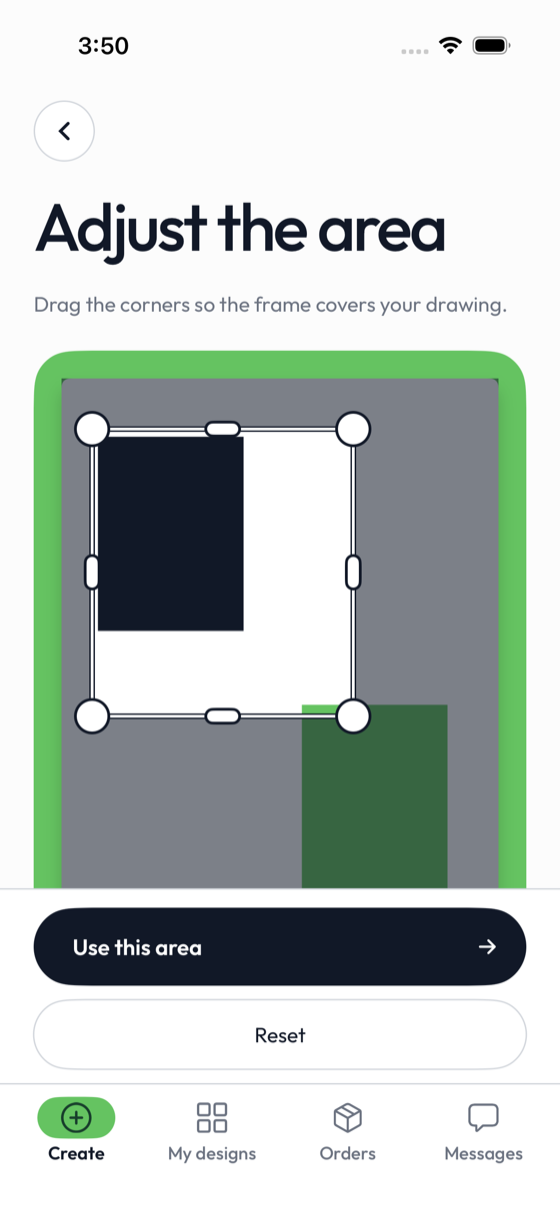
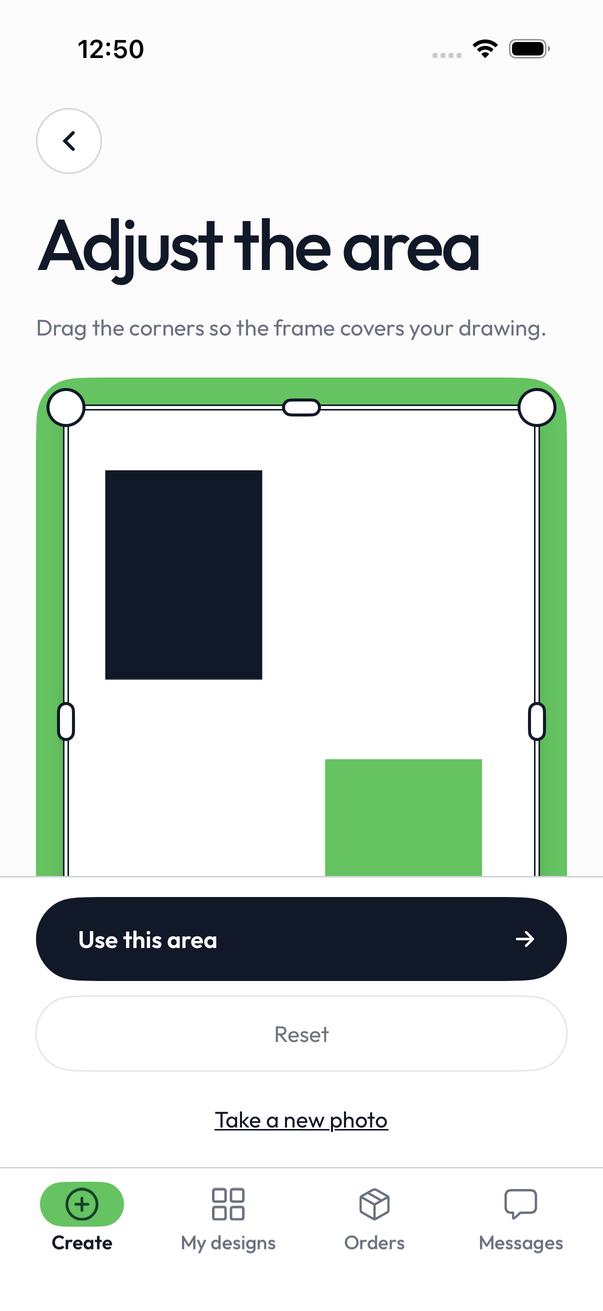
docs: README for the submission — fresh screenshots (current app and live shop), physical tag done, no TestFlight claim, Spark's naming role, the autoplaying story video, what was verified on a phone

diff --git a/README.md b/README.md
@@ -7,19 +7,19 @@ This is our entry for the Meta Global AI Developer Hackathon (Startups track, "B
 ## Screenshots
 
 <p>
-  <img width="280" src="docs/images/ios-change-it.png" alt="The iOS app's Change your art? screen: your picked drawing on a card, a description of what the image shows, the What to change field with the words Make the sky purple typed in, the Say what to change microphone button, Make the change, and a Looks good as is button">
-  <img width="280" src="docs/images/ios-before-after.png" alt="The iOS app's Here's the change screen: the request Make the sky purple, Before and After pictures side by side (the same sample mascot on both sides, because the mock makes no real edit), and the buttons Use this, Change it again and Back to my original">
-  <img width="280" src="docs/images/ios-adjust-the-area.png" alt="The iOS app's Adjust the area screen: the heading, the line Drag the corners so the frame covers your drawing, the photo on a green card with a white resizable frame around one dark shape (round handles on the four corners and the four edges), and the buttons Use this area and Reset">
+  <img width="280" src="docs/images/ios-change-it.png" alt="The iOS app's Change your art? screen, scrolled to the form: the product photo of your sticker at the top (the sample mascot, from the mock), a What the image shows card, the What to change field with the words Make the sky purple typed in, the Say what to change microphone button, the buttons Make the change and Looks good as is, and a Fix the cutout link">
+  <img width="280" src="docs/images/ios-before-after.png" alt="The iOS app's Here's the change screen: the subtitle Your sticker, before and after, a You asked card with Make the sky purple, the Before and After product photos side by side (the same sample mascot on both sides, because the mock makes no real edit), and the buttons Use this, Change it again, Back to my original and Fix the cutout">
+  <img width="280" src="docs/images/ios-adjust-the-area.png" alt="The iOS app's Adjust the area screen: the heading, the line Drag the corners so the frame covers your drawing, the photo still on the phone with a white resizable frame around all of it (round handles on the four corners and the four edges; the test suite's picture shows a dark rectangle and a green square), the buttons Use this area and Reset, and a Take a new photo link">
 </p>
 
-![The shop home page at desktop width: the eyebrow "Stickers & totes by disabled artists", the headline "Art with a story in every piece.", the buttons Shop new arrivals and How story tags work, and a photo of the green mascot holding tote bags with a Tap the tag card](docs/images/web-shop-home.png)
+![The shop home page at desktop width: the eyebrow "Stickers & totes by disabled artists", the headline "Art with a story in every piece.", the buttons Shop new arrivals and How story tags work, the line "By default, half of every sale goes to the artist", and a photo of the green mascot holding two tote bags](docs/images/web-shop-home.png)
 
-The iOS shots come from the simulator running against the mock API (`ios/scripts/mock_api.py`), with the mascot standing in for the drawing and the change result (the first two are v0.8-rc1; the Adjust-the-area shot is from v0.8 and shows the test suite's generated photo with the frame dragged out from one piece; the current screen opens on the whole photo, still on the phone, with the frame around all of it and a Take a new photo button, and nothing is uploaded until Use this area); the shop shot is the local dev server, captured at 1440 px and shown here at 1200 px. Mascot and sky imagery: The 3rd Eye design team. The creator portraits are illustrative, provided by the founder.
+The iOS shots are the current app (Nov 4) in the simulator against the mock API (`ios/scripts/mock_api.py`): the mascot stands in for the sticker and the change result (the mock makes no real edit, so Before and After show the same picture), and Adjust the area holds the test suite's generated picture; nothing is uploaded until Use this area. The shop shot is the live site captured at 1440 px and shown here at 1200 px. Mascot and sky imagery: The 3rd Eye design team. The creator portraits are illustrative, provided by the founder.
 
 ## Try it in 3 minutes
 
 1. **Buy something.** Open <https://the-3rd-eye.vercel.app>, pick a sticker, choose a **Size** and a quantity, tap **Add to bag**, fill in the order sheet (name, optional email and note) and tap **Place order**. Payment is staged: the order is created with no charge. The success page shows the story-tag link `/t/<token>`, the page a buyer sees when they tap the sticker's NFC tag. Leave the artist a note there.
-2. **Make something.** Open `/create` on your phone (or the iOS TestFlight build) and sign in with the creator code in the submission notes. Pick **Sticker**, then **Take a photo** or **Upload a picture** of a drawing. **Adjust the area** opens at once on the photo in your phone or browser (nothing is uploaded yet): drag the corners of the frame onto the drawing and tap **Use this area**. Only the framed part is uploaded (the full photo never leaves the device); SAM 3.1 finds the drawing in it, cuts it out and shows **Your cutout**, filling the screen (with a strip to switch pieces when there is more than one): if it missed a detail or kept too much, choose **Fix the edges**, pick **Add area** or **Remove area**, tap the picture and tap **Apply cutout**, then **Use this**. **Change it** opens while your sticker is being made and then shows the AI product photo of it. Say or type what to change (for example "Make the book red") and tap **Make the change**: Muse Image edits your piece, SAM cuts it out again and a new product photo is made; **Before and after** shows the two stickers and Muse Spark describes the result (VoiceOver reads it on iOS). Choose **Use this**, **Change it again**, **Back to my original** or **Fix the cutout**; **Looks good as is** goes to the listing the agent drafts: the product photo shows at once and a drafting card while the text is written ("Redo" goes back to the cutout). A faint drawing gets a print warning that **Use anyway** accepts; only a picture too small to print is refused. The product is in the shop; the **My story video** row on the Create tab plays or re-records your video.
+2. **Make something.** Open `/create` on your phone (or the iOS app built from `ios/`) and sign in with the creator code in the submission notes. Pick **Sticker**, then **Take a photo** or **Upload a picture** of a drawing. **Adjust the area** opens at once on the photo in your phone or browser (nothing is uploaded yet): drag the corners of the frame onto the drawing and tap **Use this area**. Only the framed part is uploaded (the full photo never leaves the device); SAM 3.1 finds the drawing in it, cuts it out and shows **Your cutout**, filling the screen (with a strip to switch pieces when there is more than one): if it missed a detail or kept too much, choose **Fix the edges**, pick **Add area** or **Remove area**, tap the picture and tap **Apply cutout**, then **Use this**. **Change it** opens while your sticker is being made and then shows the AI product photo of it. Say or type what to change (for example "Make the book red") and tap **Make the change**: Muse Image edits your piece, SAM cuts it out again and a new product photo is made; **Before and after** shows the two stickers and Muse Spark describes the result (VoiceOver reads it on iOS). Choose **Use this**, **Change it again**, **Back to my original** or **Fix the cutout**; **Looks good as is** goes to the listing the agent drafts: the product photo shows at once and a drafting card while the text is written ("Redo" goes back to the cutout). A faint drawing gets a print warning that **Use anyway** accepts; only a picture too small to print is refused. The product is in the shop; the **My story video** row on the Create tab plays or re-records your video.
 3. **See the trace.** The admin page (`/admin`, password in the submission notes) lists orders, print files and every model call behind each artwork at `/admin/trace/<artworkId>`.
 
 ## The four problems
@@ -35,25 +35,25 @@ Source for problem 2: U.S. Bureau of Labor Statistics, *Persons with a Disabilit
 
 Real:
 - Every Meta model call in the model map below, on the deployed site and in the iOS app.
-- The creator flow (photo or upload, Adjust the area, Your cutout, Change it by voice or text, Before and after, listing, story video, thank-you), the shop, the story-tag page, the buyer-to-creator note thread, and the admin pages for print files.
+- The creator flow (photo or upload, Adjust the area, Your cutout, Change it by voice or text, Before and after, listing, story video, thank-you), the shop, the story-tag page (the artist's captioned video starts by itself, muted, with a "Turn sound on" button), the buyer-to-creator note thread, and the admin pages for print files.
 - Print files (PNG and die-cut SVG), generated for every order and downloadable from `/admin`.
 
 Staged or limited:
 - **Payments.** Add to bag opens an order sheet; Place order creates one order (product, size, quantity) and takes no payment (`PAYMENTS_MODE=staged`). The size prices (sticker 3 in = listed price, 4 in +$2, sticker sheet +$6) are sample pricing.
 - **Creators.** The example artists in the shop are fictional and labelled as such. Real creators sign in with a code issued from `/admin`; this is development-grade sign-in, not production auth.
 - **Notifications.** The iOS app checks for new orders and messages about every 10 seconds. There are no push notifications.
-- **Physical sticker and NFC tag.** Printing, cutting and writing a tag are the physical test before the freeze (Nov 3, 18:00) (steps in `scripts/print_checklist.md`); method: a standard NFC writer app. The iOS app does not write tags. The QR code on `/admin` opens the same story page.
+- **Physical sticker and NFC tag.** Done by hand: a sticker was printed from the print file and cut along its die-cut line, and a tag written with a standard NFC writer app opens the story page `/t/<token>` on a phone (steps in `scripts/print_checklist.md`). The iOS app does not write tags. The QR code on `/admin` opens the same story page.
 - **Fulfilment.** We print and ship by hand from the admin page.
 - **Open-weight stage.** Muse Glimmer runs on our development Mac, so it is only available while that Mac is serving (see below).
 - **Not used by the apps:** the text-to-image routes (`POST /prompts/shape`, `POST /artworks` with `source: "text2image"`, `POST /artworks/{id}/refine`) remain in the backend, unused since v0.8 and still tested; removing them is a post-hackathon task (`docs/api.md`).
-- **Not yet verified on a phone:** captions from a camera video on a real iPhone, and a VoiceOver pass over the Change it, Before and after, Your cutout and My designs screens. See `docs/risks.md` and `docs/accessibility.md`.
+- **Verified on a phone (Nov 4):** the creator flow from a photo to a listed sticker in the iOS app, and the story tag page in Safari. **Not yet verified:** captions from a video recorded in the app on a real iPhone, and a VoiceOver pass over the Change it, Before and after, Your cutout and My designs screens. See `docs/risks.md` and `docs/accessibility.md`.
 
 ## Model map
 
 | Stage | Model | Id |
 |---|---|---|
 | Speech to text (the spoken change instruction, story and thank-you captions) | Muse Voice Transcribe 1.0 | `muse-voice-transcribe-1.0` |
-| Describe each result (Before and after, alt text, what differs from the request); listing agent | Muse Spark 1.3 | `muse-spark-1.3` |
+| Name the things in a photo so SAM can find the subject; describe each result (Before and after, alt text, what differs from the request); listing agent | Muse Spark 1.3 | `muse-spark-1.3` |
 | Edit the picked piece with the change instruction (the piece is the input image); product mockups | Muse Image 1.0 | `muse-image-1.0` |
 | Find the drawing inside the **Adjust the area** frame (the device uploads only the framed part, and detection runs on it); cut out the changed piece; die-cut outline | SAM 3.1 | `sam-3.1` |
 | Draft the artist's story from their own words (open weights) | Muse Glimmer 30B via Ollama | `muse-glimmer` |

diff --git a/docs/deployments.md b/docs/deployments.md
@@ -110,4 +110,4 @@
 - Hero chip removed (the "Tap the tag · Meet <name>" pill on the shop hero photo, founder's call): promoted by the founder on 2026-11-04 as `dpl_FcQyJV3763Wm65QpyJaGdEy8z1uy` (main 8a9127a); smoke OK. Rollback: `dpl_Czkof2EWR3y4xsqxe3UygbeYhBHo`.
 - Story player fills its frame (`object-fit: cover`, centre crop; the founder's recordings are 16:9 talking heads): promoted by the founder on 2026-11-04 as `dpl_BX4TCLj6pHAWZwfESWZ3bDhcduzi` (main 6cc8198). Same day, off-code: June's story video re-uploaded as a faststart remux (index at the front) because the phone player would not start on the tag page. Rollback: `dpl_FcQyJV3763Wm65QpyJaGdEy8z1uy`.
 - Story video autoplay (muted, captions on, real play and "Turn sound on" buttons; iOS Safari drew no native inline control and taps never started the video): promoted by the founder on 2026-11-04 as `dpl_9aSDDGGYAgD9dk5MrtvmXTbrRV3x` (main ab7bebb); verified on the iOS 26.4 simulator (plays by itself, the sound button unmutes). Rollback: `dpl_BX4TCLj6pHAWZwfESWZ3bDhcduzi`.
-- **Submission (2026-11-04):** production stays `dpl_9aSDDGGYAgD9dk5MrtvmXTbrRV3x`; the repo commit submitted is tagged `v1.0-submission` (docs-only changes after that deployment: handoff states, README wording, the plan mirror pointer, this line). A later env-only redeploy (`DEMO_STORY_TAG_TOKEN`) changes no code.
+- **Submission (2026-11-04):** production stays `dpl_9aSDDGGYAgD9dk5MrtvmXTbrRV3x`; the repo commits submitted are tagged `v1.0-submission` (the clean-up) and `v1.0.1-submission` (the README refresh with fresh screenshots); both are docs-only changes after that deployment. A later env-only redeploy (`DEMO_STORY_TAG_TOKEN`) changes no code.
